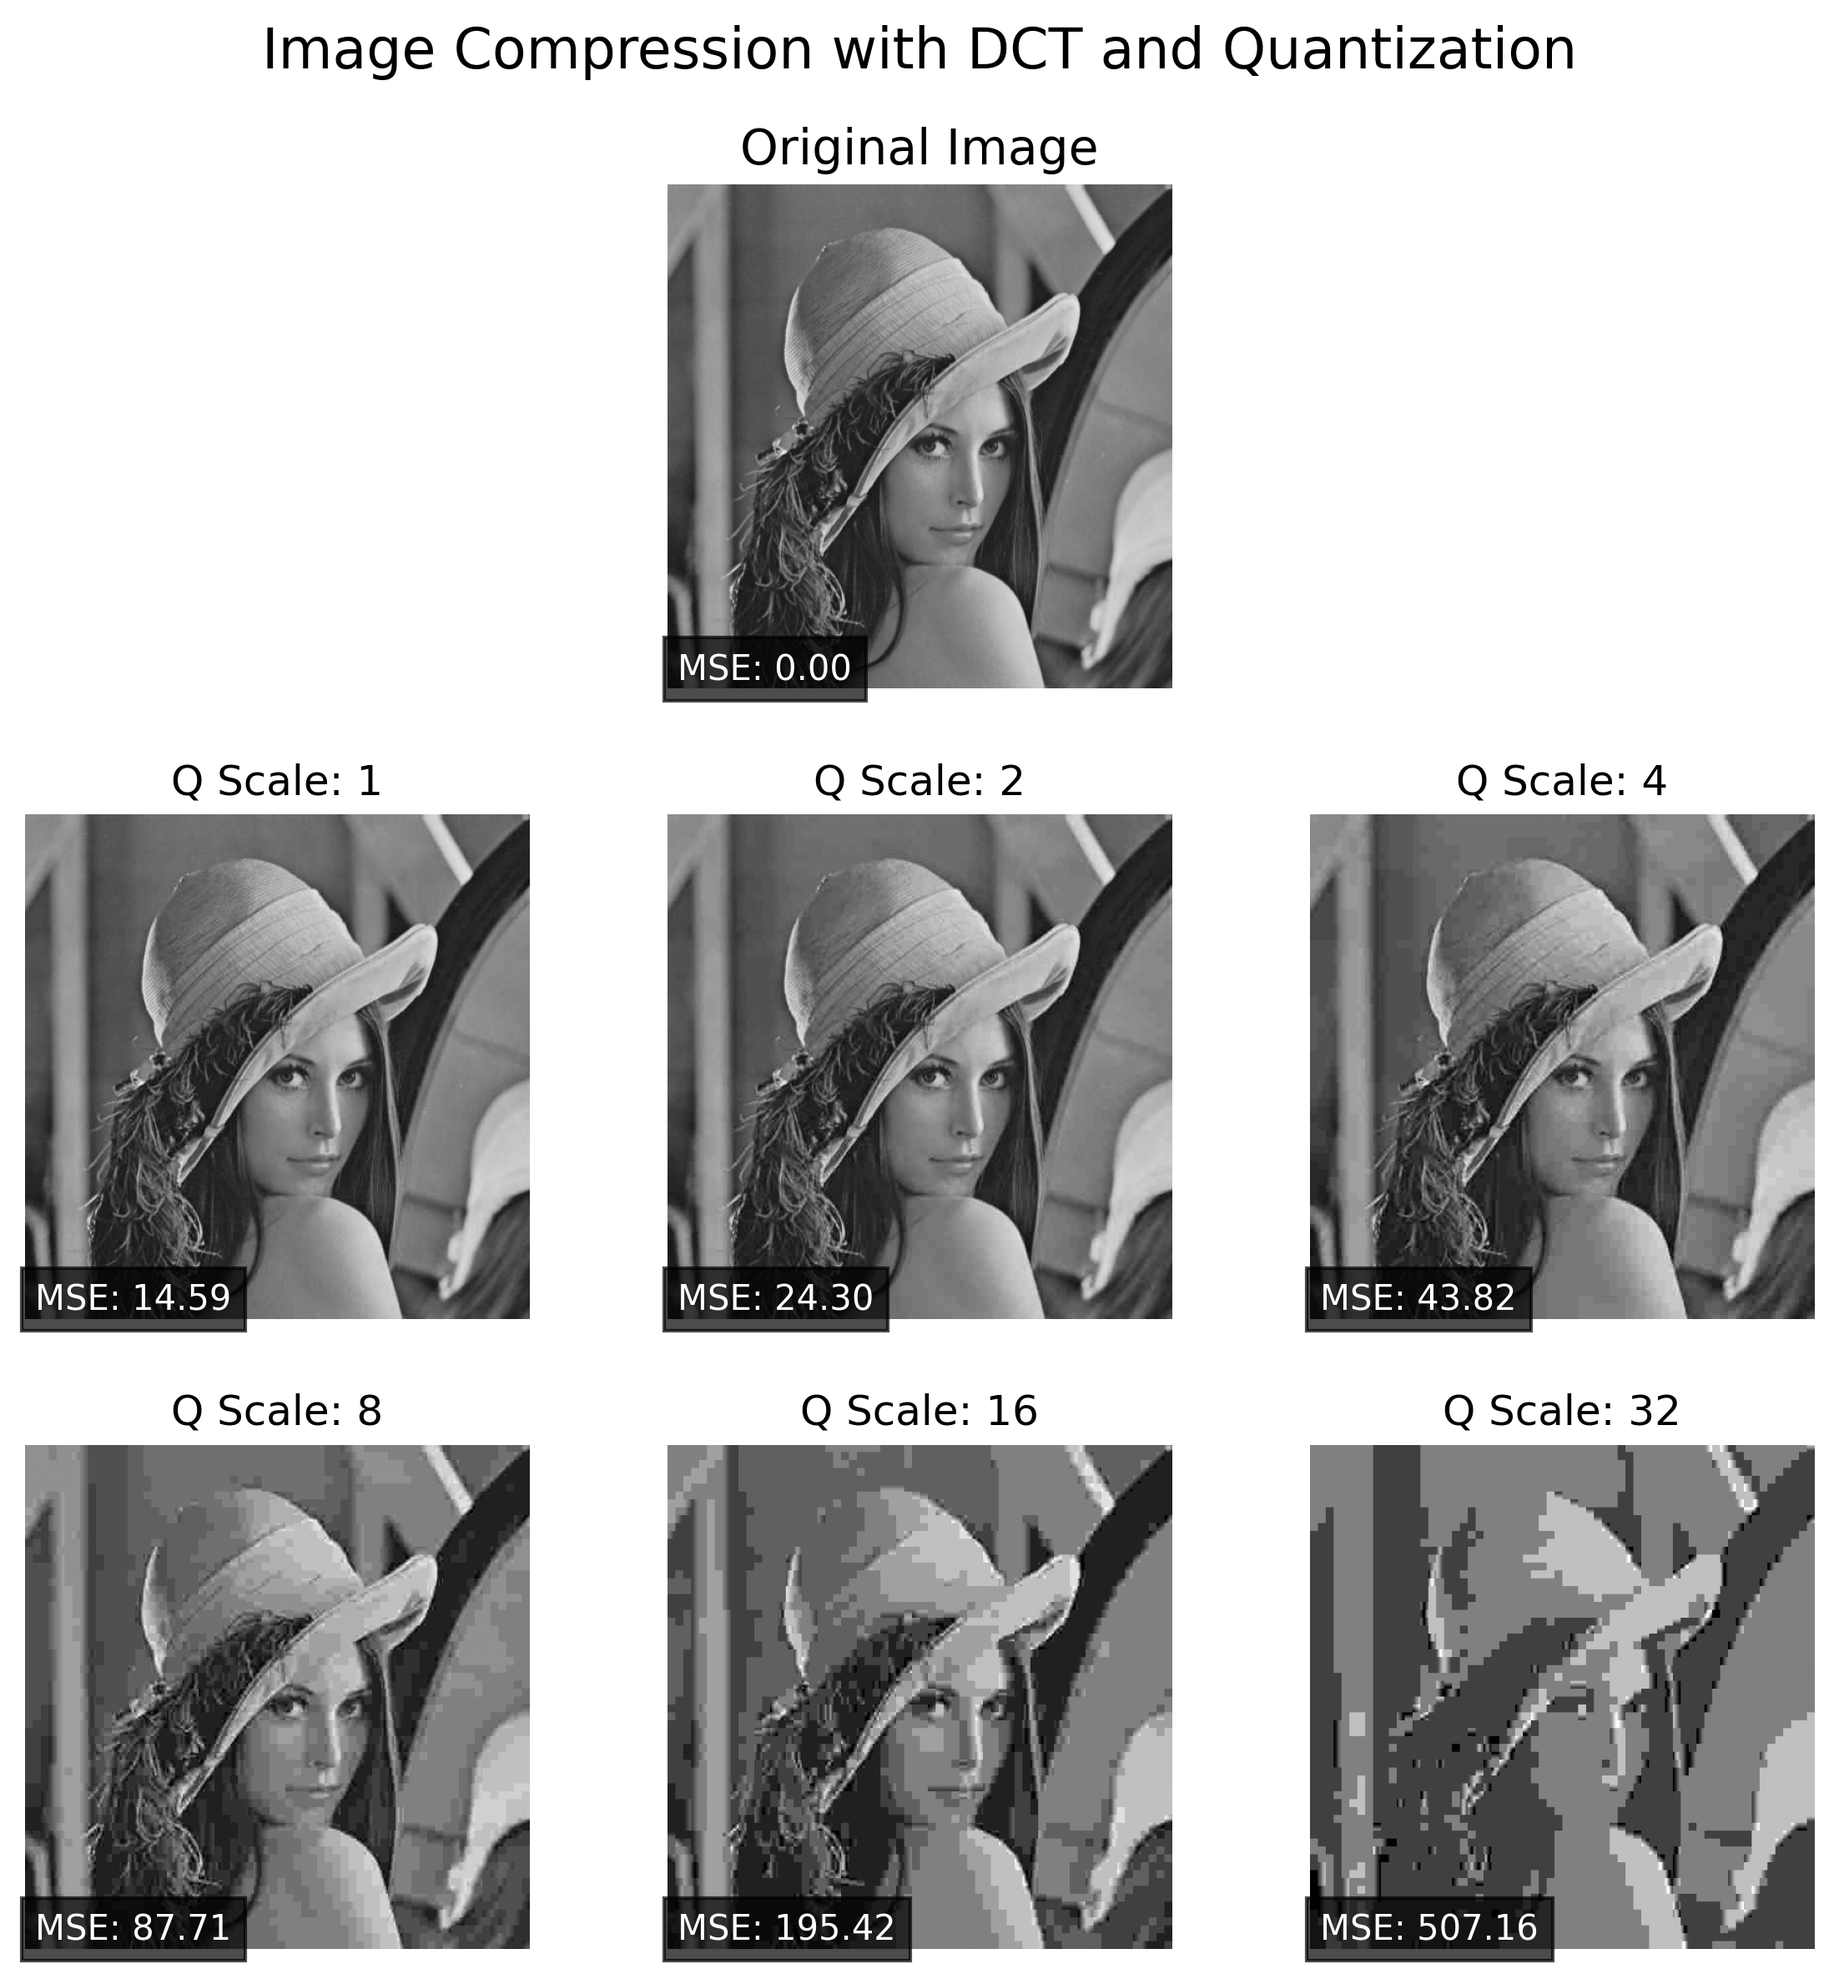
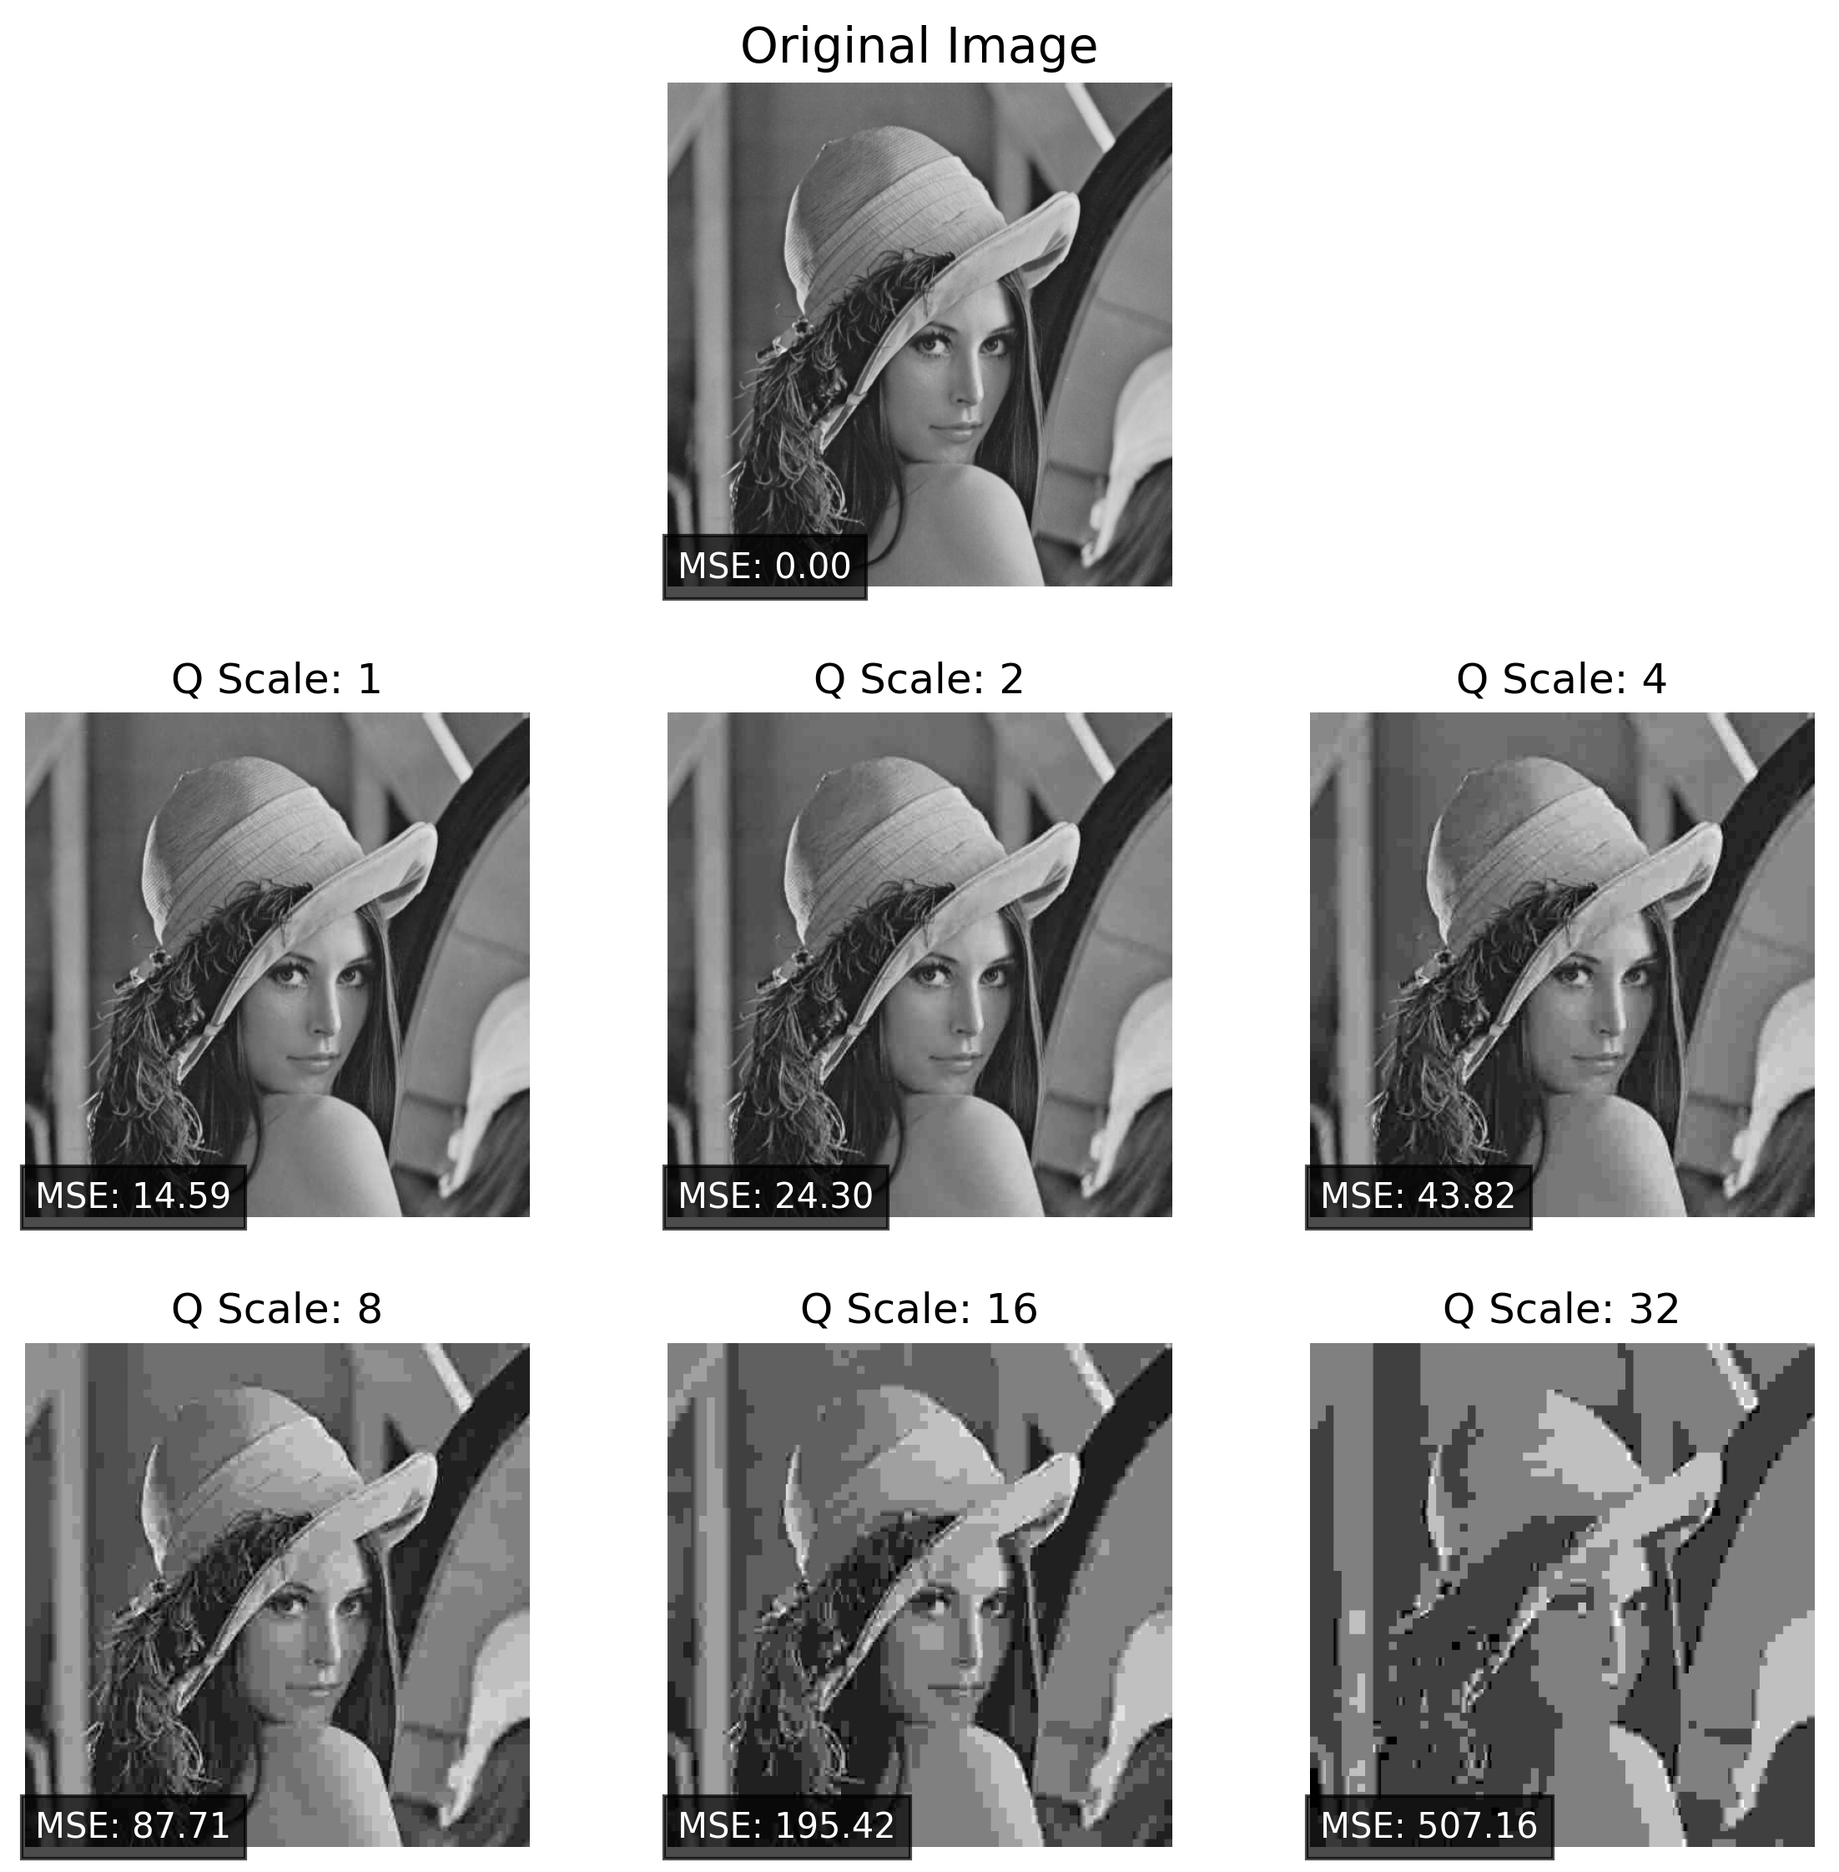
Second Commit

diff --git a/main.py b/main.py
@@ -190,8 +190,6 @@ class Visualization:
                 fontsize=10,
                 bbox=dict(facecolor='black', alpha=0.7)
             )
-
-        fig.suptitle('Image Compression with DCT and Quantization', fontsize=16)
         plt.tight_layout()
         plt.subplots_adjust(top=0.9, hspace=0.25, wspace=0)
 
